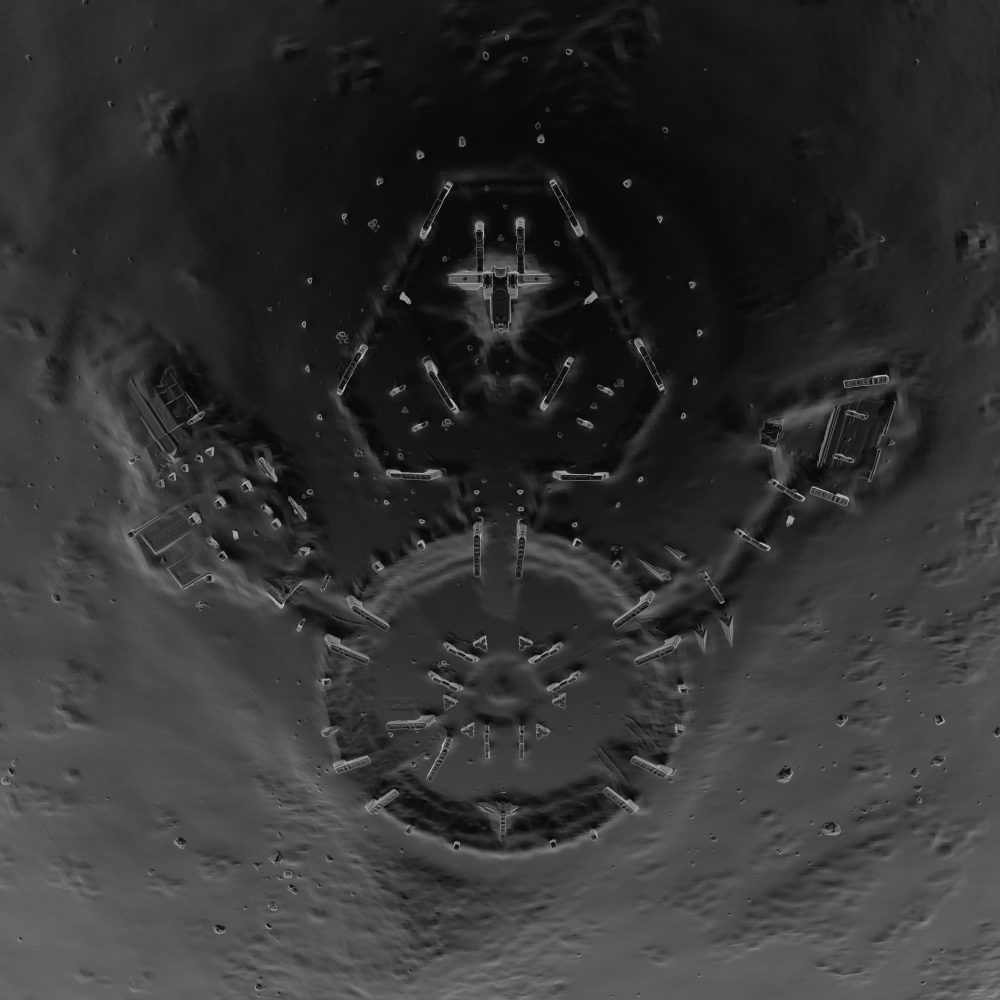
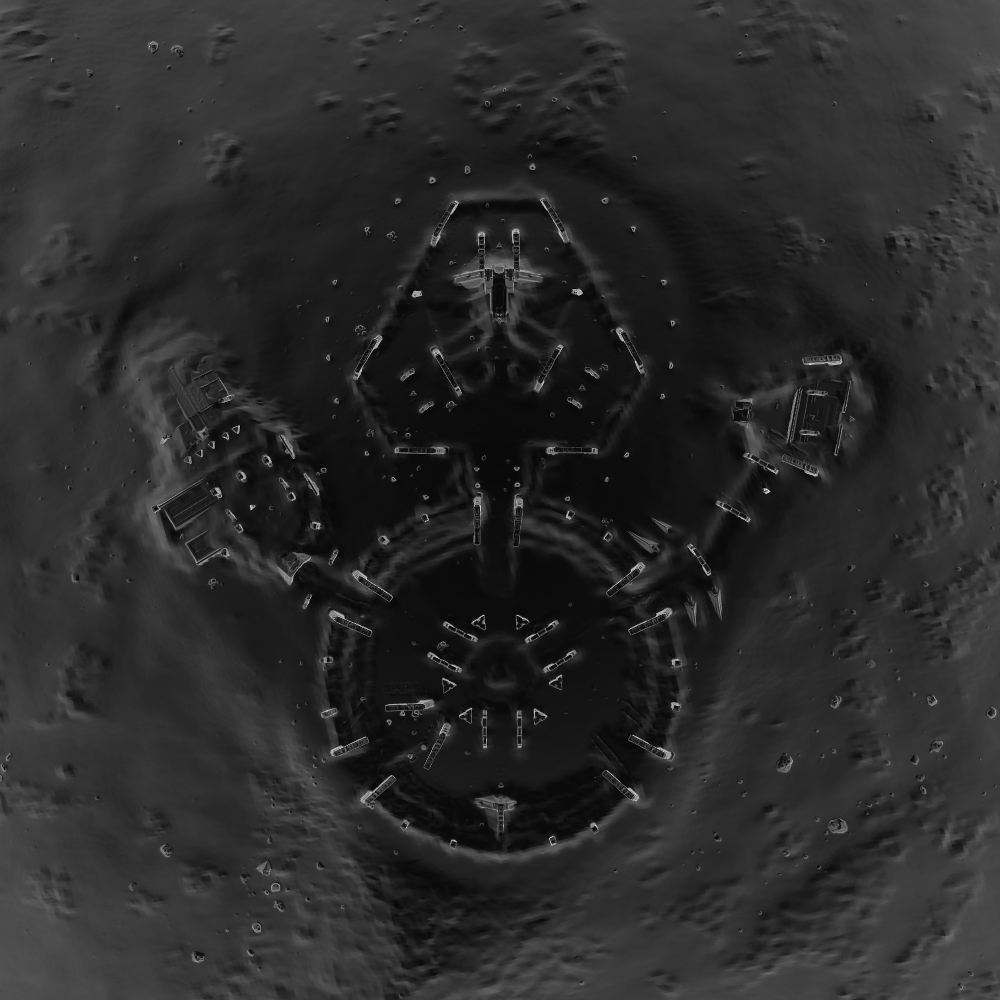
- Add/update background images for Bowl and Hammerbot sites - Clean up some POI details - Fix Srv location rendering incorrectly at Guardian sites - Add screenshot assistance for Hammerbot

diff --git a/SrvSurvey/PlotBase.cs b/SrvSurvey/PlotBase.cs
@@ -475,28 +475,35 @@ namespace SrvSurvey
             // draw touchdown marker
             if (this.touchdownLocation0 != null)
             {
-                const float touchdownSize = 24f; // 64f;
-                var rect = new RectangleF(
-                    (float)touchdownLocation0.dx - touchdownSize,
-                    (float)-touchdownLocation0.dy - touchdownSize,
-                    touchdownSize * 2,
-                    touchdownSize * 2);
+                const float shipSize = 24f;
+                var shipLatLong = game.cmdr.lastTouchdownLocation!;
+                var ship = Util.getOffset(game.systemBody.radius, shipLatLong, 180);
 
-                var isFormerTouchdownLocation = game.touchdownLocation == null || game.touchdownLocation == LatLong2.Empty || (game.vehicle == ActiveVehicle.MainShip && game.mode == GameMode.Flying);
-                var brush = isFormerTouchdownLocation ? GameColors.brushShipFormerLocation : GameColors.brushShipLocation;
+                // adjust location by ship cockpit offset
+                var po = ShipCenterOffsets.get(game.shipType);
+                var pd = po.rotate(game.cmdr.lastTouchdownHeading);
+                ship += pd;
+
+                var rect = new RectangleF(
+                    (float)ship.X - shipSize,
+                    (float)-ship.Y - shipSize,
+                    shipSize * 2,
+                    shipSize * 2);
+
+                var shipDeparted = game.touchdownLocation == null || game.touchdownLocation == LatLong2.Empty;
+                var brush = shipDeparted ? GameColors.brushShipFormerLocation : GameColors.brushShipLocation;
+
                 g.FillEllipse(brush, rect);
             }
 
             // draw SRV marker
             if (game.srvLocation != null)
             {
-                var offset = Util.getOffset(game.status.PlanetRadius, game.srvLocation);
+                var offset = Util.getOffset(game.status.PlanetRadius, game.srvLocation, 180);
                 const float srvSize = 10f;
                 var rect = new RectangleF(
-                    //(float)srvLocation0.dx - srvSize,
-                    //(float)-srvLocation0.dy - srvSize,
                     (float)offset.X - srvSize,
-                    (float)offset.Y - srvSize,
+                    (float)-offset.Y - srvSize,
                     srvSize * 2,
                     srvSize * 2);
 

diff --git a/SrvSurvey/PlotVertialStripe.cs b/SrvSurvey/PlotVertialStripe.cs
@@ -14,7 +14,8 @@ namespace SrvSurvey
             Beta,
             Gamma,
             RelicTower,
-            Robolobster
+            Robolobster,
+            Hammerbot,
         }
 
         public static Mode mode;
@@ -47,7 +48,7 @@ namespace SrvSurvey
             this.BackColor = Color.Red;
             this.TransparencyKey = Color.Red;
             this.AllowTransparency = true;
-            
+
             game.status.StatusChanged += Status_StatusChanged;
         }
 
@@ -195,6 +196,9 @@ namespace SrvSurvey
                     this.drawRobolobsterTarget(g);
                     break;
 
+                case Mode.Hammerbot:
+                    this.drawHammerbotTarget(g);
+                    break;
                 case Mode.Buttress:
                 default:
                     this.drawButtressTarget(g);
@@ -441,7 +445,7 @@ namespace SrvSurvey
             drawCircle(g, x, y, 30);
 
             drawLine(g, x - 30, y, x - w * 0.50f, y);
-            drawLine(g, x + 22, y-4, x + 30, y-4);
+            drawLine(g, x + 22, y - 4, x + 30, y - 4);
 
             drawLine(g, x, y + 30, x, y + 50);
             drawLine(g, x - 19, y + 25, x - 30, y + 42);
@@ -516,7 +520,6 @@ namespace SrvSurvey
             g.DrawLine(GameColors.penBlack2Dash, w - w2, t + 180, w + w2, t + 180);
         }
 
-
         private void drawRobolobsterTarget(Graphics g)
         {
             var er = Elite.getWindowRect();
@@ -564,6 +567,28 @@ namespace SrvSurvey
             //x = w + ew * 1;
             //y = eh * 24;
             //drawCircle(g, x, y, 60);
+        }
+
+        private void drawHammerbotTarget(Graphics g)
+        {
+            var er = Elite.getWindowRect();
+
+            var ex = er.Width * 0.01f;
+            var w = (this.Width / 2f);
+            var h = (this.Height / 2f);
+
+            drawLine(g, w - ex, h - 10, w+ex, h - 10);
+
+            drawLine(g, w, h + 100, w, h + 400);
+
+
+            //ex = 0;
+            var ex2 = er.Width * 0.007f;
+            var ey = er.Height * 0.03f;
+            drawLine(g, w - ex - ex2, h + ey, w - ex, h + ey + ey);
+
+            //ex -= er.Width * 0.02f;
+            drawLine(g, w + ex + ex2, h + ey, w + ex, h + ey + ey);
         }
 
     }

diff --git a/SrvSurvey/PlotGuardians.cs b/SrvSurvey/PlotGuardians.cs
@@ -219,6 +219,11 @@ namespace SrvSurvey
                     PlotVertialStripe.mode = PlotVertialStripe.Mode.Robolobster;
                     PlotVertialStripe.targetAltitude = 1500;// TODO: Game.settings.aerialAltGamma;
                     break;
+
+                case SiteType.Hammerbot:
+                    PlotVertialStripe.mode = PlotVertialStripe.Mode.Hammerbot;
+                    PlotVertialStripe.targetAltitude = 650;// TODO: Game.settings.aerialAltGamma;
+                    break;
             }
 
             // assume onFoot only means Relic Towers

diff --git a/SrvSurvey/Main.cs b/SrvSurvey/Main.cs
@@ -1541,8 +1541,8 @@ namespace SrvSurvey
 
         private void btnPublish_Click(object sender, EventArgs e)
         {
-            //this.publishGuardians();
-            Game.git.publishBioCriteria();
+            this.publishGuardians();
+            //Game.git.publishBioCriteria();
         }
 
         private void publishGuardians()
